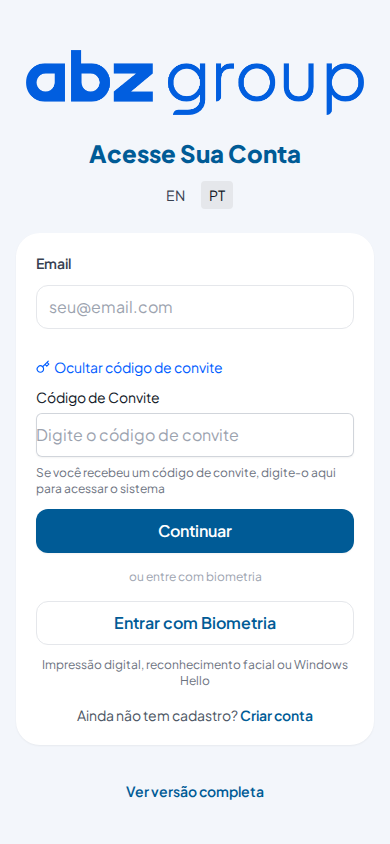
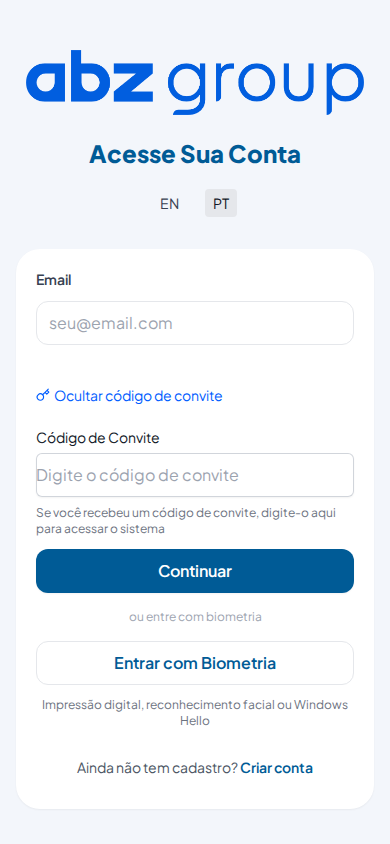
test(mobile-first): prova QA 44px, preview 404 e desktop 0 px
Medidas 375/390, curl /m/preview=404, /m/rota-inexistente=307, pixel-diff 1440x900 vs 870924dc.

diff --git a/docs/mobile-audit/fase2/proofs-prod.md b/docs/mobile-audit/fase2/proofs-prod.md
@@ -1,13 +1,13 @@
-# Fase 2 — prova desktop produção (1440×900)
+# Fase 2 — prova desktop produção (1440×900) + QA PR #95
 
 `next build` + `next start`.  
-Before: `feat/mobile-first` (`149f8771`) em `/tmp/mf-before` → `:3001`.  
-After: `feat/mobile-first-fase2` (`8923b336`) em `/tmp/mf-after` → `:3002`.  
+Before: `870924dc` em `/tmp/mf-before` → `:3001`.  
+After: `03497d6c` em `/tmp/mf-after` → `:3002`.  
 Irmãos sob `/tmp`. Comparar `/workspace` vs `/tmp` é inválido (sort de CSS do Next 15.5 depende do path absoluto).
 
 Idioma idêntico: `locale=pt-BR`, `languageDialogShown=true`, cookie `NEXT_LOCALE=pt-BR`. Sem animações. UA desktop. Sem cookie `ui`.
 
-Script: `scripts/mobile-fase2-prod-diff.mjs`. JSON: `proofs-prod.json` (`createdAt: 2026-09-25T04:25:51.194Z`).
+Script: `scripts/mobile-fase2-prod-diff.mjs`. JSON: `proofs-prod.json`. Alvos: `scripts/mobile-fase2-touch-targets.mjs` → `touch-targets.json`.
 
 ## Diff por rota (1 296 000 px)
 
@@ -19,31 +19,46 @@ Script: `scripts/mobile-fase2-prod-diff.mjs`. JSON: `proofs-prod.json` (`created
 | `/unauthorized` | **0** | **0%** |
 | `/dashboard` | **0** | **0%** |
 
-Fonte desktop: `plusJakartaSans`. `data-abz-ui` no `<html>`: `null`. Sem toque em `src/app/layout.tsx` nem `src/app/login/page.tsx`.
+Fonte desktop: mesma ordem de `<link>` (`bef464f1` → `715be398` → `6cb2ff30`). `data-abz-ui` no `<html>`: ausente. Sem toque em `src/app/layout.tsx`, `src/app/login/page.tsx`, `LanguageSelector.tsx`, `Auth/InviteCodeInput.tsx`.
 
-Hash Tailwind do after mudou (`bef464f1…`) porque o front mobile ganhou classes já usadas no kit; a ordem dos `<link>` no `/login` continua `globals → toastify → next/font`. Pixel-diff 0.
+## Alvos de toque no login mobile (`getBoundingClientRect`)
+
+Antes (QA, 390×844): EN 34,4×28; PT 32,3×28; convite 203,3×20; Criar conta 77,6×19.
+
+| Alvo | 390×844 antes | 390×844 depois | 375×812 depois |
+|------|---------------|----------------|----------------|
+| EN | 34,4×28 | **44×44** | **44×44** |
+| PT | 32,3×28 | **44×44** | **44×44** |
+| Tenho um código de convite | 203,3×20 | **201×44** | **201×44** |
+| Criar conta | 77,6×19 | **73×44** | **73×44** |
+
+Wrappers só em `src/components/mobile/` (`MobileLanguageSelector`, `MobileInviteCodeInput`) + `touch-target` no link “Criar conta”.
+
+## `/m/preview` e `/m/rota-inexistente` (`next start`)
+
+```
+curl -s -o /dev/null -w '%{http_code}' http://127.0.0.1:3002/m/preview
+404
+```
+
+Corpo: `Not Found`. Rewrite `beforeFiles` → `GET /api/mobile/preview-disabled`.
+
+```
+curl -sI http://127.0.0.1:3002/m/rota-inexistente
+HTTP/1.1 307 Temporary Redirect
+location: http://localhost:3002/rota-inexistente
+```
+
+Seguir o redirect: desktop 404 (`src/app/not-found.tsx`). `m/not-found.tsx` não altera o 404 global.
 
 ## `/m/*` no desktop
 
-- Com Edge: `/m` → `/`, `/m/login` → `/login`. `/m/preview` não redireciona.
-- Sem Edge (este Next 15.5): `/m/*` **renderiza o mobile**. `/login` público continua desktop (provado: `data-abz-mobile-login` = 0).
-- `/m/preview` em produção: `notFound()` (vitrine ausente). Status HTML pode vir 200 com corpo 404 (prerender Next).
+- Com Edge: `/m` → `/`, `/m/login` → `/login`. `/m/preview` não redireciona (404 em produção).
+- Sem Edge (este Next 15.5): `/m/*` **renderiza o mobile** (ou 307 no catch-all). `/login` público continua desktop (`data-abz-mobile-login` = 0).
 
-## Login mobile (mock de rede, sem bypass)
+## Testes
 
-`scripts/mobile-fase2-login-proof.mjs` + `login-proof.json`.
-
-| Passo | Resultado |
-|-------|-----------|
-| UI e-mail: convite, biometria, Criar conta, EN/PT | ok |
-| e-mail novo → `quick_register` | ok |
-| e-mail existente → `password` | ok |
-| `POST /api/auth/login` | ok (mesmo endpoint do desktop) |
-| `POST /api/auth/webauthn/login/options` | ok |
-| `/login` desktop sem árvore mobile | ok |
-| Destino após login | `postLoginPath` = `/dashboard` (ou `/set-password`). Token mock não mantém sessão. |
-
-Testes: `npx tsx --test src/lib/mobile-ui/device-surface.test.ts src/components/mobile/mobile-login-flow.test.ts` — **30 pass**.
+`npx tsx --test src/lib/mobile-ui/device-surface.test.ts src/lib/mobile-ui/preview-block.test.ts src/components/mobile/mobile-login-flow.test.ts` — **34 pass** (inclui GET/HEAD 404 do handler).
 
 ## Screenshots 375×812 e 390×844
 

diff --git a/tasks.md b/tasks.md
@@ -9,7 +9,7 @@ Adaptar o portal para celular em todos os módulos; dono consulta nas decisões.
 - [x] Dono aprovou; D4 invertida (desktop congelado; front mobile separado)
 - [x] Fase 2: rewrite + shell + login P0 em `feat/mobile-first-fase2` (PR contra `feat/mobile-first`)
 - [x] PR #95: prova desktop produção (`proofs-prod.md`). Dashboard 0 px. Outras rotas = raster de fonte (ordem `<link>`). Sem overlay/modal.
-- [ ] PR #95 QA: alvos login ≥ 44×44 (wrappers mobile); `/m/preview` HTTP 404 no `next start`; `/m/rota-inexistente` → desktop; prova 0 px `/tmp` vs `870924dc`.
+- [x] PR #95 QA: alvos login ≥ 44×44 (wrappers mobile); `/m/preview` HTTP 404 no `next start`; `/m/rota-inexistente` → desktop; prova 0 px `/tmp` vs `870924dc`.
 - [x] Reverter `ClientProviders.tsx` e `CompanionSessionContext.tsx` (sem layout extra em `/login`)
 - [x] Tablet next.config = middleware (iPad + Android) + testes UA
 

diff --git a/docs/mobile-audit/AGENTS.md b/docs/mobile-audit/AGENTS.md
@@ -14,6 +14,7 @@ Screenshots e métricas da Fase 1 mobile-first (viewports 375×812 e 390×844). 
 - Provas desktop (produção): `scripts/mobile-fase2-prod-diff.mjs` + `fase2/proofs-prod.md` (builds irmãos sob `/tmp/mf-*`)
 - Login mobile: `scripts/mobile-fase2-login-proof.mjs` (mock de rede)
 - Shots mobile: `scripts/mobile-fase2-mobile-shots.mjs` (login/home/Mais/Companion)
+- Alvos de toque: `scripts/mobile-fase2-touch-targets.mjs` (getBoundingClientRect 375/390)
 
 ## Local Contracts
 
